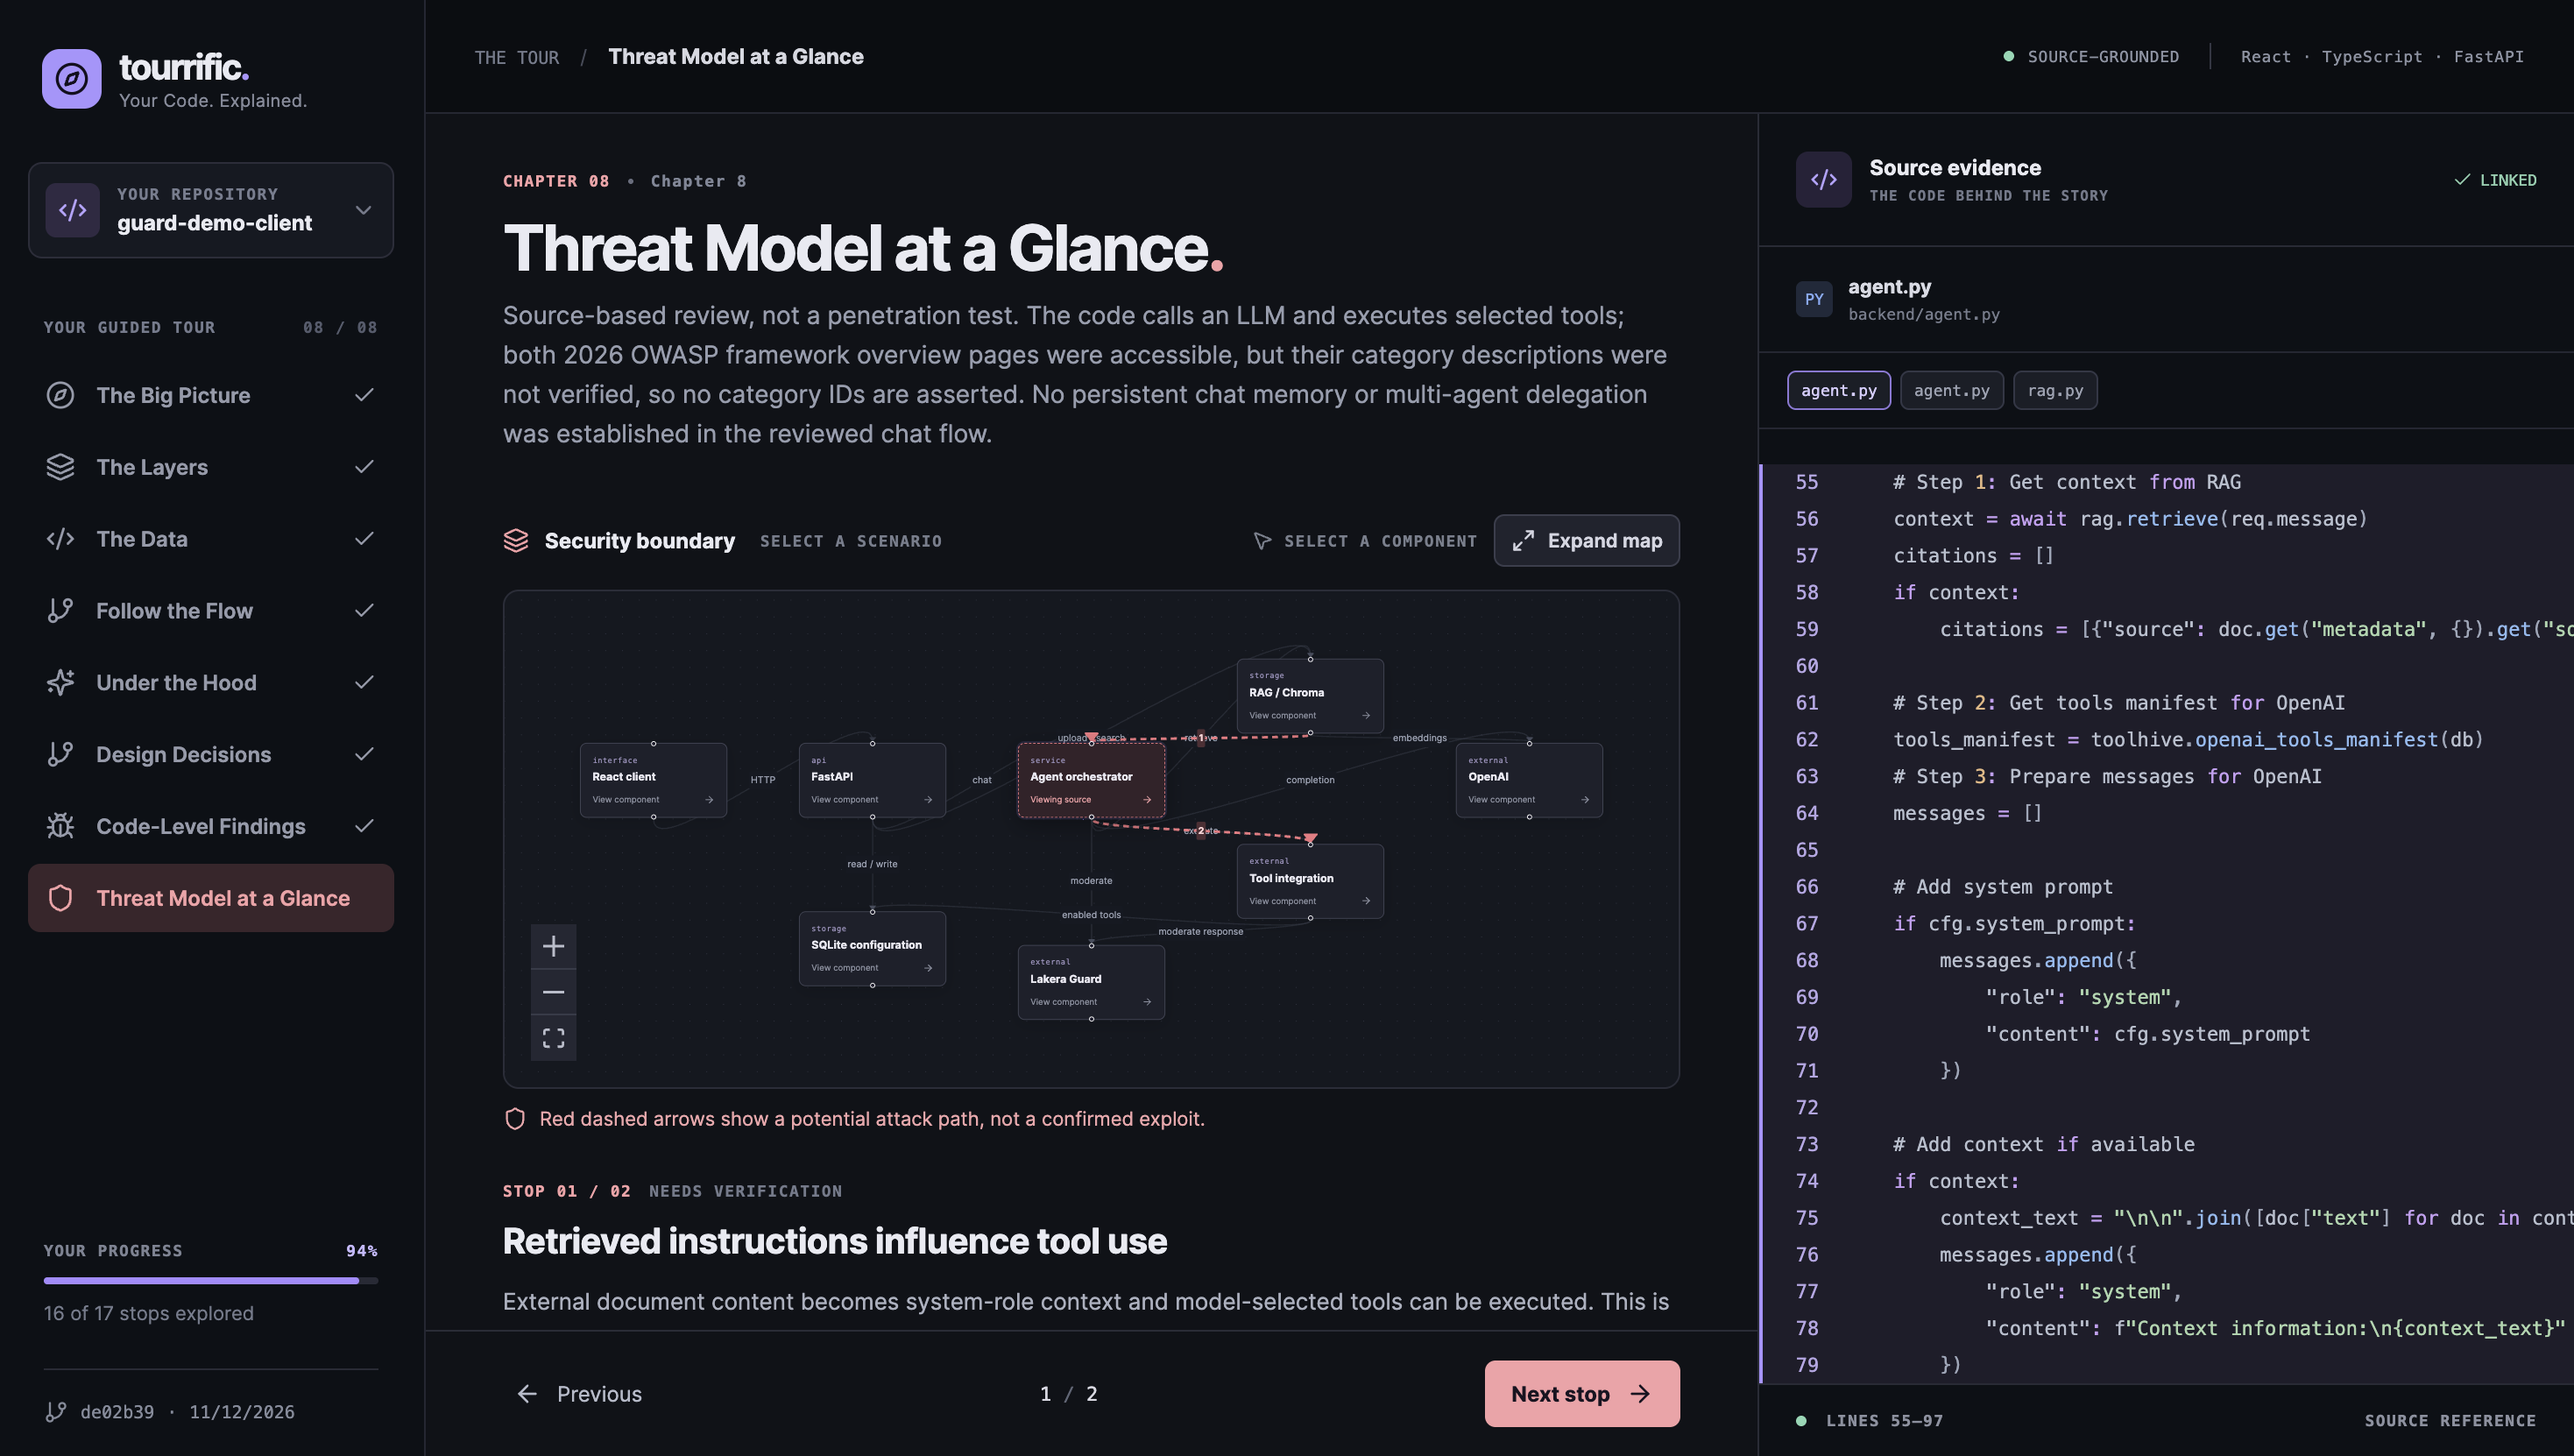
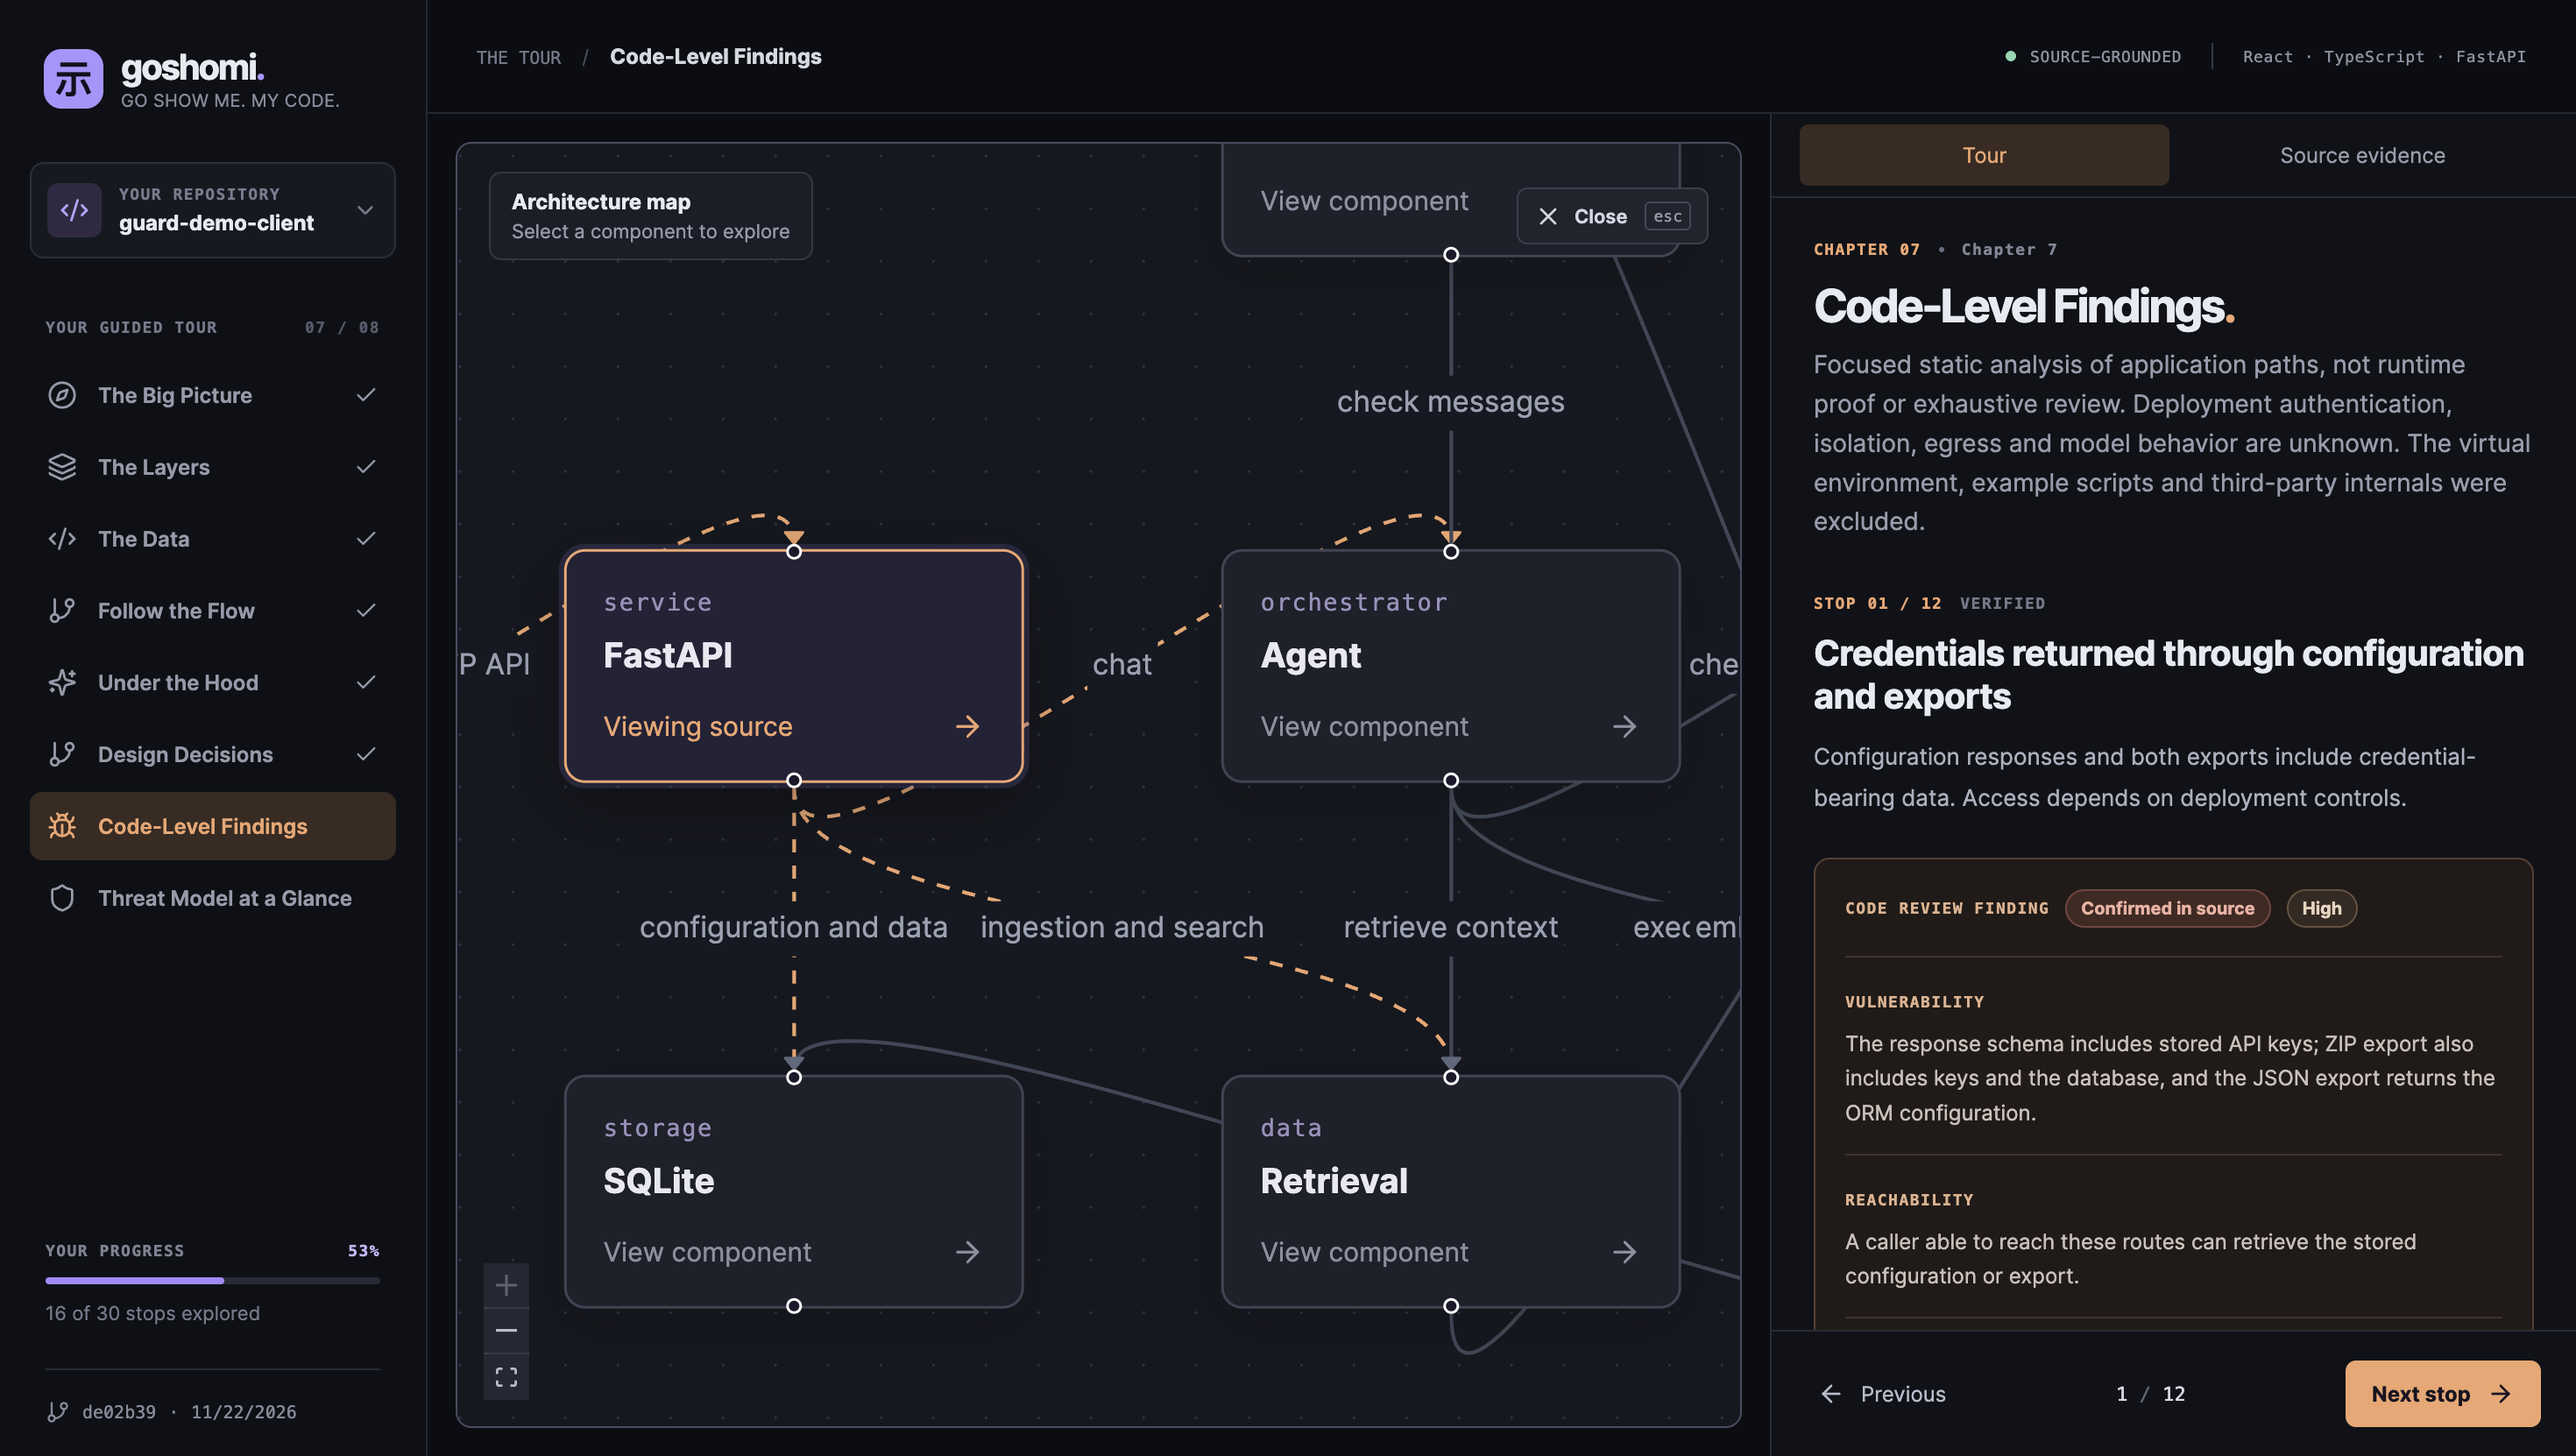
Changed install to replace old versions

diff --git a/tools/goshomi/tests/test_install_skill.py b/tools/goshomi/tests/test_install_skill.py
@@ -120,11 +120,29 @@ class InstallTest(unittest.TestCase):
                         (assets / 'viewer.css').write_text('css')
                     return subprocess.CompletedProcess(command, 0)
                 return real_run(command, **kwargs)
-            with patch.object(bootstrap, 'REPOSITORY', str(repo)), patch.object(sys, 'argv', ['install.py', '--agent', 'codex']), patch.dict('os.environ', {'HOME': str(root)}), patch.object(subprocess, 'run', side_effect=run):
-                self.assertEqual(bootstrap.main(), 0)
             installed = root / '.agents/skills/goshomi'
+            def install(*extra):
+                with patch.object(bootstrap, 'REPOSITORY', str(repo)), patch.object(sys, 'argv', ['install.py', '--agent', 'codex', *extra]), patch.dict('os.environ', {'HOME': str(root)}), patch.object(subprocess, 'run', side_effect=run):
+                    return bootstrap.main()
+            self.assertEqual(install(), 0)
             self.assertEqual((installed / 'SKILL.md').read_text(), 'skill')
             self.assertTrue((installed / 'viewer/dist/assets/viewer.js').is_file())
             self.assertTrue((installed / 'scripts/tour.py').is_file())
+            first = installed.resolve()
+            (repo / '.agents/skills/goshomi/SKILL.md').write_text('updated skill')
+            subprocess.run(['git', '-C', str(repo), 'add', '.'], check=True)
+            subprocess.run(['git', '-C', str(repo), '-c', 'user.name=Test', '-c', 'user.email=test@example.invalid', 'commit', '-qm', 'update'], check=True)
+            self.assertEqual(install(), 0)
+            self.assertEqual((installed / 'SKILL.md').read_text(), 'updated skill')
+            self.assertNotEqual(installed.resolve(), first)
+            backups = list((root / '.agents/goshomi-backups').glob('goshomi-*'))
+            self.assertEqual(len(backups), 1)
+            self.assertEqual(backups[0].resolve(), first)
+            self.assertEqual(install(), 0)
+            self.assertEqual(len(list((root / '.agents/goshomi-backups').glob('goshomi-*'))), 1)
+            self.assertEqual(install('--ref', 'HEAD~1'), 1)
+            self.assertEqual((installed / 'SKILL.md').read_text(), 'updated skill')
+            self.assertEqual(install('--ref', 'HEAD~1', '--replace'), 0)
+            self.assertEqual((installed / 'SKILL.md').read_text(), 'skill')
 
 if __name__ == '__main__': unittest.main()

diff --git a/tools/goshomi/scripts/install-skill.py b/tools/goshomi/scripts/install-skill.py
@@ -54,6 +54,33 @@ def standalone_source(checkout, base):
     return dest / '.agents/skills/goshomi'
 
 
+def managed_revision(path, base, require_link=True):
+    """Return the commit for a link into this user's standalone versions directory."""
+    if require_link and not path.is_symlink():
+        return None
+    versions = (base / '.local/share/goshomi/versions').resolve()
+    try:
+        parts = path.resolve().relative_to(versions).parts
+    except (ValueError, OSError, RuntimeError):
+        return None
+    if (len(parts) != 4 or parts[1:] != ('.agents', 'skills', 'goshomi')
+            or len(parts[0]) not in (40, 64)
+            or any(c not in '0123456789abcdef' for c in parts[0])):
+        return None
+    return parts[0]
+
+
+def is_managed_upgrade(dest, source, base, checkout):
+    """Only automatically advance an existing managed link to a descendant commit."""
+    old = managed_revision(dest, base)
+    new = managed_revision(source, base, require_link=False)
+    if not old or not new or old == new:
+        return False
+    result = subprocess.run(['git', '-C', str(checkout), 'merge-base', '--is-ancestor', old, new],
+                            stdout=subprocess.DEVNULL, stderr=subprocess.DEVNULL)
+    return result.returncode == 0
+
+
 def main():
     parser = argparse.ArgumentParser(description=__doc__)
     parser.add_argument('--agent', choices=('codex', 'claude', 'both'), required=True)
@@ -82,8 +109,13 @@ def main():
     agents = ('codex', 'claude') if args.agent == 'both' else (args.agent,)
     destinations = [base / ('.agents' if agent == 'codex' else '.claude') / 'skills' / 'goshomi' for agent in agents]
     conflicts = [dest for dest in destinations if exists(dest) and dest.resolve() != source.resolve()]
-    if conflicts and not args.replace:
-        for dest in conflicts:
+    try:
+        blocked = [dest for dest in conflicts if not (args.standalone and is_managed_upgrade(dest, source, base, checkout))]
+    except OSError as exc:
+        print(f'Could not check installed version: {exc}', file=sys.stderr)
+        return 1
+    if blocked and not args.replace:
+        for dest in blocked:
             print(f'Existing skill: {dest}', file=sys.stderr)
         print('No active skills changed. Rerun with --replace to back up the existing skill and install the current one.', file=sys.stderr)
         return 1

diff --git a/README.md b/README.md
@@ -27,7 +27,7 @@ Install for Codex and Claude Code with Python 3, Git, Node.js, and npm installed
 
 The installer downloads the repository into a temporary directory, builds the viewer, and installs an independent copy under `~/.local/share/goshomi/versions/`. It links the skill for both agents; use `--agent codex` or `--agent claude` for just one. Restart the agent to discover the skill. The downloaded installer and temporary build files are removed automatically.
 
-To update or replace an existing installation, run the same command with `--replace` after `"$tmpdir/install.py"`. Conflicting Goshomi skills are backed up outside the active skill directories. Existing `tourrific` skills are separate and must be removed or backed up manually when you migrate. To pin a reviewed commit or tag, pass `--ref <commit-or-tag>`; the default is `main`. Review the installer and source before running them. Building requires network access to GitHub and the configured npm registry.
+Run the same install command again to update a standalone Goshomi installation to a newer descendant commit; its previous skill links are backed up outside the active skill directories. For a downgrade, a different history, or an unrelated existing skill, add `--replace` after `"$tmpdir/install.py"` to back it up and replace it. Existing `tourrific` skills are separate and must be removed or backed up manually when you migrate. To pin a reviewed commit or tag, pass `--ref <commit-or-tag>`; the default is `main`. Review the installer and source before running them. Building requires network access to GitHub and the configured npm registry.
 
 For development, install directly from a checkout after building the viewer:
 

diff --git a/tools/goshomi/README.md b/tools/goshomi/README.md
@@ -4,7 +4,7 @@ Goshomi produces a source-grounded architectural tour and a lightweight threat m
 
 ## Install once
 
-For an installation independent of a development checkout, follow the installer instructions in the [root README](../../README.md). The installer copies a clean Git commit and built viewer to `~/.local/share/goshomi/versions/<commit>/`. Updating to a different commit is explicit and requires `--replace`; the previous skill links are backed up. A commit identifies the source, not a signed or reproducible build, so review the source and dependencies you build. No release tag is created by the installer.
+For an installation independent of a development checkout, follow the installer instructions in the [root README](../../README.md). The installer copies a clean Git commit and built viewer to `~/.local/share/goshomi/versions/<commit>/`. Updating to a newer descendant commit is automatic; previous skill links are backed up. Downgrades, unrelated histories, and non-managed skills require `--replace`. A commit identifies the source, not a signed or reproducible build, so review the source and dependencies you build. No release tag is created by the installer.
 
 Keep a Goshomi checkout as the portable dependency. From its root, install the viewer's build dependencies and build its reusable assets:
 
